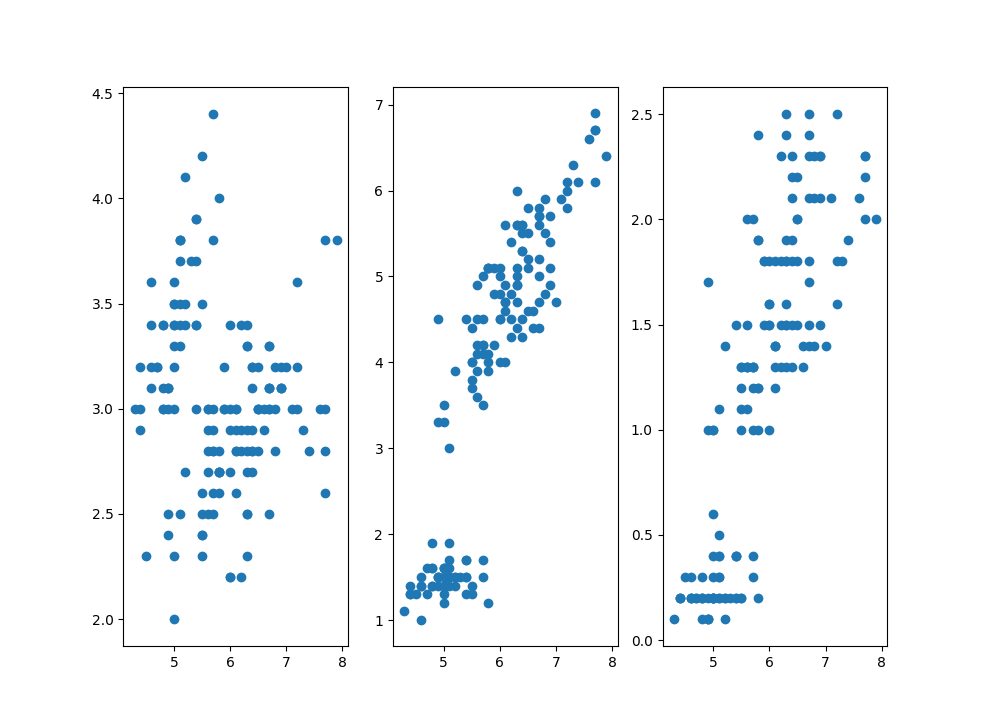
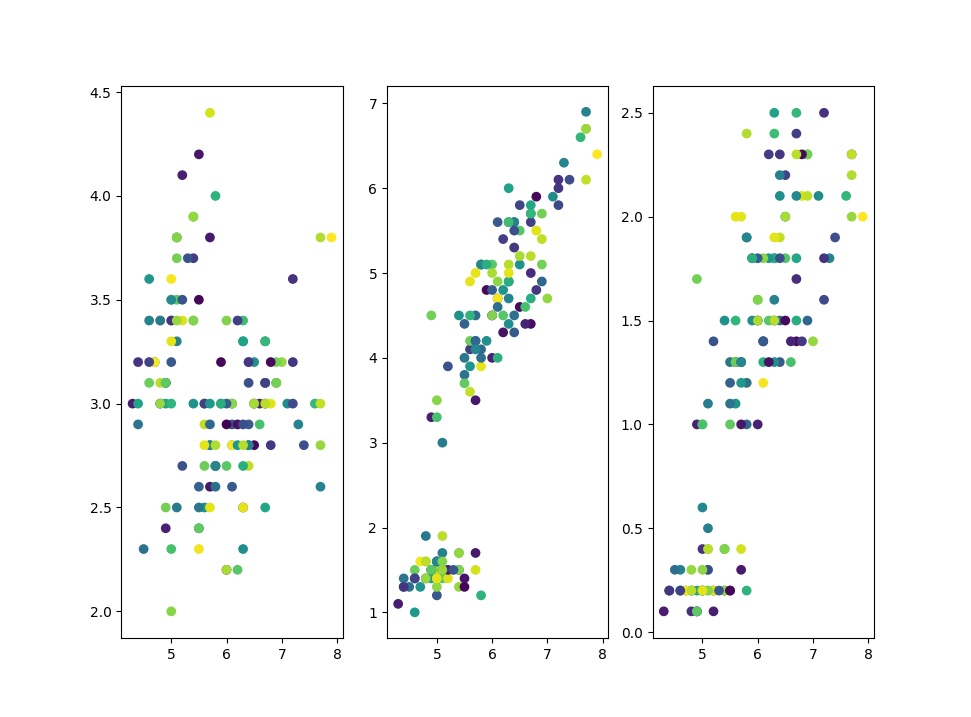
setting color for the scatter plot

diff --git a/data_science_projects/ML-iris_data/descriptive-statistical-analysis/irisdata-analysis-scatter.py b/data_science_projects/ML-iris_data/descriptive-statistical-analysis/irisdata-analysis-scatter.py
@@ -14,17 +14,18 @@ df = pd.read_csv('iris-data-copy.txt',header=0,sep=',',usecols=range(4))
 
 # Making a grid of a figure window
 grid_size=(1,3)
+colors=np.random.rand(len(df))
 
 # Scatter plot of the first column against the second 
 _ = plt.subplot2grid(grid_size,(0,0))
-scatter_plot=plt.scatter(df['5.1'],df['3.5'])
+scatter_plot=plt.scatter(df['5.1'],df['3.5'],c=colors)
 
 # Scatter plot of the first with respect to third column
 _ = plt.subplot2grid(grid_size,(0,1))
-scatter_plot=plt.scatter(df['5.1'],df['1.4'])
+scatter_plot=plt.scatter(df['5.1'],df['1.4'],c=colors)
 
 # Scatter plot of the first with respect to fourth column
 _ = plt.subplot2grid(grid_size,(0,2))
-scatter_plot=plt.scatter(df['5.1'],df['0.2'])
+scatter_plot=plt.scatter(df['5.1'],df['0.2'],c=colors)
 
 plt.show() # Displaying the scatter plot

diff --git a/data_science_projects/ML-iris_data/model-building/irisdata-analysis-model.py b/data_science_projects/ML-iris_data/model-building/irisdata-analysis-model.py
@@ -1,0 +1,14 @@
+# This script import iris data from a file and parses the data for analysis 
+
+import pandas as pd
+import matplotlib.pyplot as plt
+import numpy as np
+
+
+# Import data from a file
+df = pd.read_csv('iris-data-copy.txt',header=0,sep=',',usecols=range(4))
+
+
+
+
+
